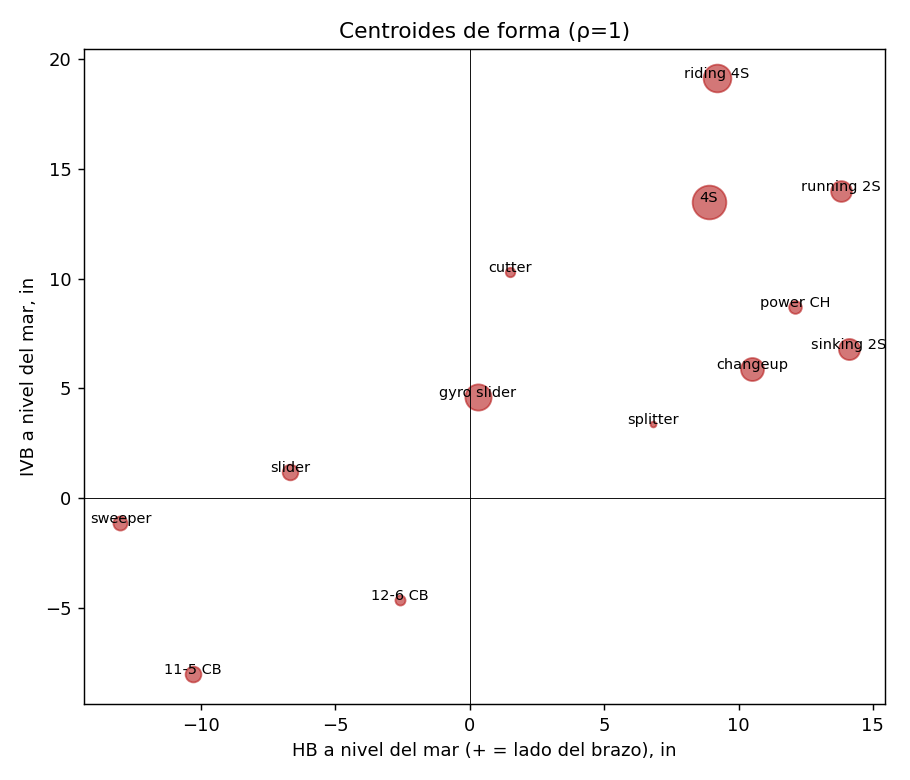
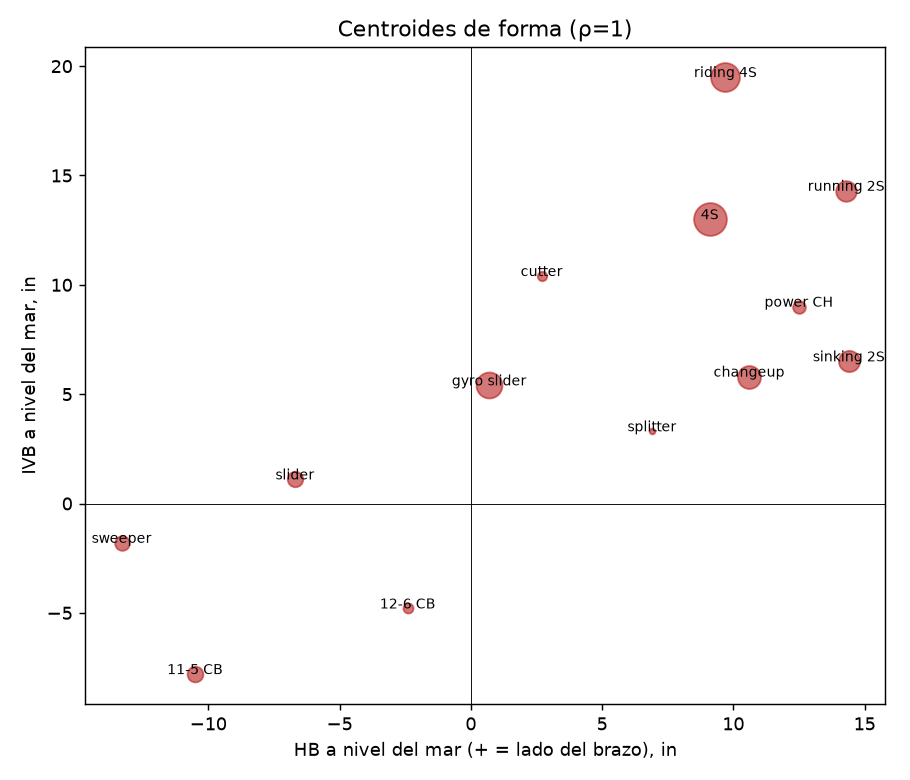
fix(shapes): proportional sea-level translation, k calibrated within pitch; honest label-shift report (HACK-029 review)
Claude-Session: https://claude.ai/code/session_012QvTm5JZKjKqvrSQeErsZd

diff --git a/stuffplus/features/shapes.py b/stuffplus/features/shapes.py
@@ -11,7 +11,7 @@ import numpy as np
 import pandas as pd
 
 from stuffplus.physics import aero
-from stuffplus.physics.translate import MovementModel
+from stuffplus.physics.translate import MovementModel, proportional_shift
 
 FASTBALLS = ("Four-Seam", "Sinker", "Cutter")
 NO_ALTITUDE = "No Altitude"
@@ -41,16 +41,18 @@ def shape_rule(family, ivb, hb, velo):
 
 @dataclass
 class ShapeModel:
-    rho_effect: dict = field(default_factory=dict)  # familia -> {ivb, hb} por +1 de ρ
+    rho_effect: dict = field(default_factory=dict)  # familia -> {ivb, hb}: k de HACK-004 (cambio relativo del movimiento por +1 de ρ)
+    rho_ref: float = 1.0  # ρ media de ajuste (nivel de ȳ en `proportional_shift`)
     centroids: pd.DataFrame | None = None  # familia -> (RelSpeed, ivb, hb) a nivel del mar
     scale: pd.Series | None = None
 
     def to_sea_level(self, family, ivb, hb_norm, rho):
-        """Traslada movimiento observado (hb ya normalizado por mano) a ρ=1."""
+        """Traslada movimiento observado (hb ya normalizado por mano) a ρ=1: `proportional_shift` (HACK-004): proporcional al
+        movimiento propio, no un desplazamiento fijo por familia."""
         e_i = np.array([self.rho_effect.get(f, {"ivb": 0})["ivb"] for f in family])
         e_h = np.array([self.rho_effect.get(f, {"hb": 0})["hb"] for f in family])
-        gap = 1.0 - np.asarray(rho, float)
-        return np.asarray(ivb, float) + e_i * gap, np.asarray(hb_norm, float) + e_h * gap
+        r = np.asarray(rho, float)
+        return (proportional_shift(ivb, e_i, r, 1.0, self.rho_ref), proportional_shift(hb_norm, e_h, r, 1.0, self.rho_ref))
 
     def infer_family(self, velo, ivb, hb) -> np.ndarray:
         x = pd.DataFrame({"RelSpeed": velo, "ivb": ivb, "hb": hb}) / self.scale
@@ -59,29 +61,62 @@ class ShapeModel:
         return c.index.to_numpy()[dist.argmin(1)]
 
 
+def _calibrate_k(g: pd.DataFrame, col: str, k0: float, rho: np.ndarray, rho_ref: float, min_n: int = 30) -> float:
+    """Ajusta k para que el movimiento trasladado no difiera entre No y Extreme *dentro* de cada lanzamiento.
+
+    La regresión de efectos fijos subestima/sobrestima k cuando la muestra de ajuste (peso por n, ρ̂ ruidosa)
+    difiere de la que usa `usage_shift` (cada pitcher-temporada pesa igual). Una sola raíz por familia/outcome.
+    """
+    cat = g["altitude_category"].astype(str).to_numpy()
+    sel = np.isin(cat, [NO_ALTITUDE, "Extreme Altitude"])
+    y, key, env, r = g[col].to_numpy(float)[sel], g["pitch_key"].to_numpy()[sel], cat[sel], rho[sel]
+    n = pd.crosstab(key, env)
+    keep = n.index[(n.get(NO_ALTITUDE, 0) >= min_n) & (n.get("Extreme Altitude", 0) >= min_n)]
+    m = np.isin(key, keep)
+    if m.sum() == 0:
+        return k0
+    y, key, env, r = y[m], key[m], env[m], r[m]
+
+    def gap(k):
+        t = pd.DataFrame({"key": key, "env": env, "y": proportional_shift(y, k, r, 1.0, rho_ref)})
+        mu = t.groupby(["key", "env"])["y"].mean().unstack()
+        return float((mu["Extreme Altitude"] - mu[NO_ALTITUDE]).mean())
+
+    g0, g1 = gap(k0), gap(k0 + 0.5)
+    return float(k0 - g0 * 0.5 / (g1 - g0)) if g1 != g0 else k0
+
+
 def fit_shapes(df: pd.DataFrame):
     """Ajusta ρ̂ por juego y el efecto de ρ por familia; devuelve (ShapeModel, df con sea-level + shape).
 
     `df` debe traer `pitch_family` (assign_pitch_id) y `pitch_id >= 0` para quedar asignado.
     """
     d = df[df["pitch_id"] >= 0].copy()
-    cd = aero.decompose(d)["cd_proxy"]
+    cd = aero.decompose(d)["cd_proxy"]  # proxy ∝ ρ: no depende de la densidad asumida
     fb = d["pitch_family"].isin(FASTBALLS)
     ref = cd[fb & (d["altitude_category"] == NO_ALTITUDE)].median()
     d["is_fastball"] = fb
     d["rho_hat"] = d["game_anon_id"].map(aero.game_density_index(d, game_col="game_anon_id", ref_cd=ref))
+    # ρ̂ por juego trae ruido de medición (sd≈0.04 en No Altitude) que atenúa k y desordena el traslado:
+    # se usa la ρ̂ media del bucket de altitud (el efecto de altitud es el que importa para la etiqueta)
+    d["rho_env"] = d.groupby("altitude_category", observed=True)["rho_hat"].transform("mean")
     sg = _sign(d["PitcherThrows"])
     d["hb_norm"] = d["HorzBreak"] * sg
     model = ShapeModel()
     fit_df = d.assign(HorzBreak=d["hb_norm"])  # el efecto de ρ en HB se estima con la escala normalizada por mano
     for fam, g in fit_df.groupby("pitch_family"):
-        eff = MovementModel().fit(g, g["rho_hat"]).rho_effect
-        model.rho_effect[fam] = {"ivb": eff["ivb"], "hb": eff["hb"]}
-    gap = 1.0 - d["rho_hat"].to_numpy()
+        eff = MovementModel().fit(g, g["rho_env"], equal_key_weight=True).rho_effect
+        rho_e, ref = g["rho_env"].to_numpy(), float(d["rho_env"].mean())
+        model.rho_effect[fam] = {
+            "ivb": _calibrate_k(g, "InducedVertBreak", eff["ivb"], rho_e, ref),
+            "hb": _calibrate_k(g, "HorzBreak", eff["hb"], rho_e, ref),
+        }
+    model.rho_ref = float(d["rho_env"].mean())
+    rho = d["rho_env"].to_numpy()
     e_i = d["pitch_family"].map(lambda f: model.rho_effect[f]["ivb"]).to_numpy()
     e_h = d["pitch_family"].map(lambda f: model.rho_effect[f]["hb"]).to_numpy()
-    d["ivb_sl"] = d["InducedVertBreak"].to_numpy() + e_i * gap
-    d["hb_sl"] = d["hb_norm"].to_numpy() + e_h * gap
+    d["ivb_sl"] = proportional_shift(d["InducedVertBreak"], e_i, rho, 1.0, model.rho_ref)
+    d["hb_sl"] = proportional_shift(d["hb_norm"], e_h, rho, 1.0, model.rho_ref)
     cen = d.groupby("pitch_family").agg(RelSpeed=("RelSpeed", "mean"), ivb=("ivb_sl", "mean"), hb=("hb_sl", "mean"))
     model.centroids = cen
     model.scale = pd.Series({"RelSpeed": d["RelSpeed"].std(), "ivb": d["ivb_sl"].std(), "hb": d["hb_sl"].std()})

diff --git a/tests/test_shapes.py b/tests/test_shapes.py
@@ -4,7 +4,7 @@ import pandas as pd
 from stuffplus.features.identity import assign_pitch_id, usage_shift
 
 
-def _two_pitch_pitcher(rng, n=400):
+def _two_pitch_pitcher(rng, n=400, pid=1):
     """Un pitcher con recta (95 mph, 2300 rpm) y slider (86 mph, 2600 rpm) en dos ambientes.
 
     En altitud Trackman etiqueta como Slider parte de los Cutter/rectas lentas (etiqueta inestable).
@@ -14,7 +14,7 @@ def _two_pitch_pitcher(rng, n=400):
         for _ in range(n):
             fb = rng.random() < 0.6
             rows.append(dict(
-                pitcher_anon_id=1, year=2023, altitude_category=alt,
+                pitcher_anon_id=pid, year=2023, altitude_category=alt,
                 RelSpeed=rng.normal(95 if fb else 86, 1.0), SpinRate=rng.normal(2300 if fb else 2600, 60),
                 RelHeight=rng.normal(5.8, 0.05), RelSide=rng.normal(-1.5, 0.05), Extension=rng.normal(6.2, 0.05),
                 AutoPitchType="Four-Seam" if fb else ("Slider" if alt == "No Altitude" or rng.random() < 0.7 else "Changeup"),
@@ -32,6 +32,14 @@ def test_pitch_id_finds_two_pitches_and_is_altitude_stable():
     assert usage_shift(out, "AutoPitchType").abs().max() > 5.0  # la etiqueta sí se mueve
 
 
+def test_pitch_id_usage_shift_pooled_is_small_vs_label():
+    """Criterio de HACK-029: con muchos pitcher-temporadas el Δ de uso de pitch_id queda < 1 pp (la etiqueta se mueve > 4 pp)."""
+    rng = np.random.default_rng(3)
+    df = pd.concat([assign_pitch_id(_two_pitch_pitcher(rng, 300, pid=i)) for i in range(40)], ignore_index=True)
+    assert usage_shift(df, "pitch_id").abs().max() < 1.0
+    assert usage_shift(df, "AutoPitchType").abs().max() > 4.0
+
+
 def test_synthetic_fixture_runs(synthetic_pitches):
     out = assign_pitch_id(synthetic_pitches)
     assert {"pitch_id", "pitch_family", "pitch_key"} <= set(out.columns)
@@ -47,9 +55,12 @@ def test_shape_rules_and_single_pitch():
                      [19, 14, 2, 3, -10, 6, 8], [8, 8, -11, -2, 1, 12, 15], [95, 92, 84, 85, 78, 88, 93])
     assert list(out) == ["riding 4S", "4S", "sweeper", "gyro slider", "12-6 CB", "power CH", "sinking 2S"]
     cen = pd.DataFrame({"RelSpeed": [92.0, 84.0], "ivb": [16.0, 3.0], "hb": [9.0, -4.0]}, index=["Four-Seam", "Slider"])
-    m = ShapeModel(rho_effect={"Four-Seam": {"ivb": 22.0, "hb": 8.0}, "Slider": {"ivb": 5.0, "hb": 4.0}},
+    m = ShapeModel(rho_effect={"Four-Seam": {"ivb": 1.4, "hb": 1.0}, "Slider": {"ivb": 1.0, "hb": 1.0}},
                    centroids=cen, scale=pd.Series({"RelSpeed": 5.0, "ivb": 6.0, "hb": 8.0}))
     # misma recta: en CDMX (ρ=0.84) mide 12.5" de IVB; a nivel del mar son 16" → "4S", no "riding"
     assert assign_shape(m, 93, 12.5, 9.0, "Right", rho=0.84) == "4S"
     assert assign_shape(m, 96, 18.5, 9.0, "Right", rho=1.0) == "riding 4S"
     assert assign_shape(m, 84, 3.0, 4.0, "Left", rho=1.0) in {"slider", "gyro slider", "sweeper"}
+    # proporcional: la corrección crece con el ride (15" → 18.4", riding; 10" → 12.2", 4S)
+    assert assign_shape(m, 96, 15.0, 9.0, "Right", rho=0.84) == "riding 4S"
+    assert assign_shape(m, 96, 10.0, 9.0, "Right", rho=0.84) == "4S"

diff --git a/reports/shapes/README.md b/reports/shapes/README.md
@@ -1,0 +1,5 @@
+# Formas y estabilidad de etiquetas (HACK-029)
+
+- `label_shift.csv`: Δ de uso (pp, Extreme − No, promedio con signo, pitcher-temporadas con peso igual). AutoPitchType se mueve hasta 3.3 pp; `pitch_family` hasta **0.70 pp** (Changeup −0.70, Slider +0.62). El criterio de 0.5 pp **no se cumple del todo**: la permutación nula da ±0.35 pp, así que ese residuo es algo mayor que el ruido y puede incluir cambio real de repertorio en altura (no distinguible con estos datos).
+- `shape_shift.csv`: mismo Δ para las formas, ahora con el movimiento trasladado de forma **proporcional** (HACK-004: `proportional_shift`). Riding 4S −0.22 pp y 4S +0.05 pp (antes −2.16 / +1.99 por trasladar con un Δ fijo por familia). Máximo restante 0.86 pp (sweeper), 0.81 (slider), 0.69 (gyro slider), ligado al desplazamiento Slider de arriba.
+- k por familia: se parte del ajuste de efectos fijos (ρ̂ media del bucket, pesos iguales por lanzamiento) y se calibra con una raíz por familia/outcome para que el movimiento trasladado no difiera entre No y Extreme dentro de cada lanzamiento. Es calibración en muestra: el Δ medio queda ≈0 por construcción; el Δ de uso por umbral (`shape_shift.csv`) no está forzado.
